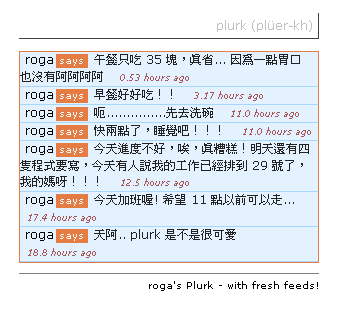
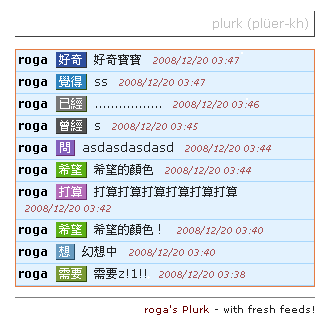
git-svn-id: https://plugins.svn.wordpress.org/get-your-plurk/trunk@81204 b8457f37-d9ea-0310-8a92-e5e31aec5664

diff --git a/style.css b/style.css
@@ -14,35 +14,41 @@ ul.gyp-get-plurks li {
 	color: #222222;	
 	border-bottom: 1px solid #A8D7FC;
 	background: #E3F2FE;
+	padding: 2px;
+}
+
+ul.gyp-get-plurks li:hover {
+	background: #e3f2fe;
 }
 
 ul.gyp-get-plurks li a, ul.gyp-get-plurks li a:visited {
-	color: #000000;
+	color: #000000;	
 }
 
-.gyp-userlink {
+a.gyp-userlink, a.gyp-userlink:visited {
 	font-weight: bold;
 }
 
+.gyp-fancy {margin: 0 3px 0 4px; padding: 0 3px; color: #FFFFFF;}
 	.gyp-loves {background: #B20C0C; border-bottom: 1px solid #334E09; border-right: 1px solid  #334E09;}
 	.gyp-likes {background: #CB2728; border-bottom: 1px solid #313131; border-right: 1px solid  #313131;}
 	.gyp-shares {background: #A74949; border-bottom: 1px solid #454545; border-right: 1px solid  #454545;}
 	.gyp-gives {background: #620E0E; border-bottom: 1px solid #313131; border-right: 1px solid  #313131;}
-.gyp-hates {background: #E57C43; border-bottom: 1px solid #E57C43; border-right: 1px solid  #E57C43;}
-.gyp-wants {background: #E57C43; border-bottom: 1px solid #E57C43; border-right: 1px solid  #E57C43;}
-.gyp-wishes {background: #E57C43; border-bottom: 1px solid #E57C43; border-right: 1px solid  #E57C43;}
-.gyp-needs {background: #E57C43; border-bottom: 1px solid #E57C43; border-right: 1px solid  #E57C43;}
-.gyp-will {background: #E57C43; border-bottom: 1px solid #E57C43; border-right: 1px solid  #E57C43;}
-.gyp-hopes {background: #E57C43; border-bottom: 1px solid #E57C43; border-right: 1px solid  #E57C43;}
-.gyp-asks {background: #E57C43; border-bottom: 1px solid #E57C43; border-right: 1px solid  #E57C43;}
-.gyp-has {background: #E57C43; border-bottom: 1px solid #E57C43; border-right: 1px solid  #E57C43;}
-.gyp-was {background: #E57C43; border-bottom: 1px solid #E57C43; border-right: 1px solid  #E57C43;}
-.gyp-wonders {background: #E57C43; border-bottom: 1px solid #E57C43; border-right: 1px solid  #E57C43;}
-.gyp-feels {background: #E57C43; border-bottom: 1px solid #E57C43; border-right: 1px solid  #E57C43;}}
-.gyp-thinks {background: #E57C43; border-bottom: 1px solid #E57C43; border-right: 1px solid  #E57C43;}
+	.gyp-hates {background: #111111; border-bottom: 1px solid #444444; border-right: 1px solid  #444444;}
+	.gyp-wants {background: #8DB241; border-bottom: 1px solid #334C08; border-right: 1px solid  #334C08;}
+	.gyp-wishes {background: #5BB017; border-bottom: 1px solid #334C08; border-right: 1px solid  #334C08;}
+	.gyp-needs {background: #7A9A37; border-bottom: 1px solid #304F09; border-right: 1px solid  #304F09;}	
+	.gyp-will {background: #B46DB9; border-bottom: 1px solid #6A2C6F; border-right: 1px solid  #6A2C6F;}	
+	.gyp-hopes {background: #E05BE9; border-bottom: 1px solid #6A2C6F; border-right: 1px solid #6A2C6F;}
+	.gyp-asks {background: #8361BC; border-bottom: 1px solid #6A2C6F; border-right: 1px solid  #6A2C6F;}
+	.gyp-has {background: #777777; border-bottom: 1px solid #334C08; border-right: 1px solid  #334C08;}
+	.gyp-was {background: #525252; border-bottom: 1px solid #313131; border-right: 1px solid  #313131;}
+	.gyp-wonders {background: #2E4E9E; border-bottom: 1px solid #313131; border-right: 1px solid  #313131;}
+	.gyp-feels {background: #2D83BE; border-bottom: 1px solid #304F09; border-right: 1px solid  #304F09;}
+	.gyp-thinks {background: #689CC1; border-bottom: 1px solid #254A64; border-right: 1px solid  #254A64;}
 	.gyp-says {background: #E57C43; border-bottom: 1px solid #E57C43; border-right: 1px solid  #E57C43;}
-.gyp-is {background: #E57C43; border-bottom: 1px solid #E57C43; border-right: 1px solid  #E57C43;}
-
+	.gyp-is {background: #E57C43; border-bottom: 1px solid #E57C43; border-right: 1px solid  #E57C43;}
+ 
 .gyp-plurk-time {
 	color: #AA5555;	
 	font-style: italic;		
@@ -53,12 +59,14 @@ ul.gyp-get-plurks li a, ul.gyp-get-plurks li a:visited {
 	font-size: 9px;
 }
 
-.gyp-plurk-detail, .gyp-plurk-detail a, .gyp-plurk-detail a:visited  {
+.gyp-plurk-detail  {
 	font-family: Verdana;
 	font-size: 10px;
 	margin: 1em 0;
 	text-align: right;
 	border-top: 1px solid #7F7F7F;
 	padding: 0.5em 0;	
-	color: #000000;		
+}
+.gyp-plurk-detail a, .gyp-plurk-detail a:visited  {	
+	color: #660000;
 }

diff --git a/get-plurk.php b/get-plurk.php
@@ -50,30 +50,27 @@ function get_plurk_feeds($username = '', $count = 10, $showtime = true, $timedif
 		}
 		else
 		{
+			
+				
 			$i = 1;
 			foreach ( $feeds->items as $feed )
 			{				
-				$result = '<li>';
+				$result .= '<li>';
 				
 				// generate links start 
-				
-				$result .= '<a href="http://www.plurk.com' . $feed['link_'] . '" class="userlink">' . $feed['author_name'] .'</a>';
-								
-				$locale = explode ("|",file_get_contents( WP_PLUGIN_DIR . '/get-your-plurk/lang.'. $lang . '.cfg'));
 
+				$locale = explode ("|",file_get_contents( WP_PLUGIN_DIR . '/get-your-plurk/lang.'. $lang . '.cfg'));
+			
+				// 	make patterns
 				for($j = 0; $j<count($locale); $j++)
-					$patterns[$j] = '/' . $feed['author_name'] . ' ' . $pattern[$j] . ' /';   
-				// make patterns						
+					$patterns[$j] = '/^' . $username . ' ' . $locale[$j] . ' /';   			
 
 				$replacements = explode ("|",file_get_contents( WP_PLUGIN_DIR . '/get-your-plurk/lang.css.cfg'));
-				for($j = 0; $j<count($replacements); $j++)
-					$replacements[$j] = '<span class="' . $replacements[$j] .'">'. $feed['author_name'] . '&nbsp;' . $locale[$j]  . '&nbsp;</span>';
-				
-				$result .= preg_replace($pattern, $replacements ,$feed['atom_content'], 1);				
-					
-						
-				$result .= '</span>';
 
+				for($j = 0; $j<count($replacements); $j++)
+					$replacements[$j] = '<a href="http://www.plurk.com' . $feed['link_'] . '" class="gyp-userlink">'. $feed['author_name'] . '</a>&nbsp;<span class="gyp-fancy ' . $replacements[$j] .'">'. $locale[$j]  . '</span>&nbsp;';											
+				
+				$result .= preg_replace($patterns, $replacements , $feed['atom_content'], 1);				 								
 				// generate links end 
 				
 				// generate date time start 
@@ -84,12 +81,12 @@ function get_plurk_feeds($username = '', $count = 10, $showtime = true, $timedif
 						$time = substr(((time() - strtotime($feed['published'])) / 3600), 0, 4);
 						if(strpos($time, ".") == 4)
 							$time = str_replace(".", "", $time);
-						$result .= ' <span class="plurk-time">' . $time . ' hours ago</span>';
+						$result .= ' <span class="gyp-plurk-time">' . $time . ' hours ago</span>';
 					}
 					else
 					{
 						$time = strftime("%Y/%m/%d %H:%M", strtotime($feed['published']));
-						$result .= ' <span class="plurk-time">' . $time . '</span>';
+						$result .= ' <span class="gyp-plurk-time">' . $time . '</span>';
 					}
 				}
 				// generate date time end 
@@ -101,7 +98,7 @@ function get_plurk_feeds($username = '', $count = 10, $showtime = true, $timedif
 			}
 		}
 		$result .= '</ul>';
-		$result .= '<div class="plurk-detail"><a href="http://www.plurk.com/'. $username . '">'. $username . "'s Plurk</a>";
+		$result .= '<div class="gyp-plurk-detail"><a href="http://www.plurk.com/'. $username . '">'. $username . "'s Plurk</a>";
 
 		if($isBroken == false)
 		{
